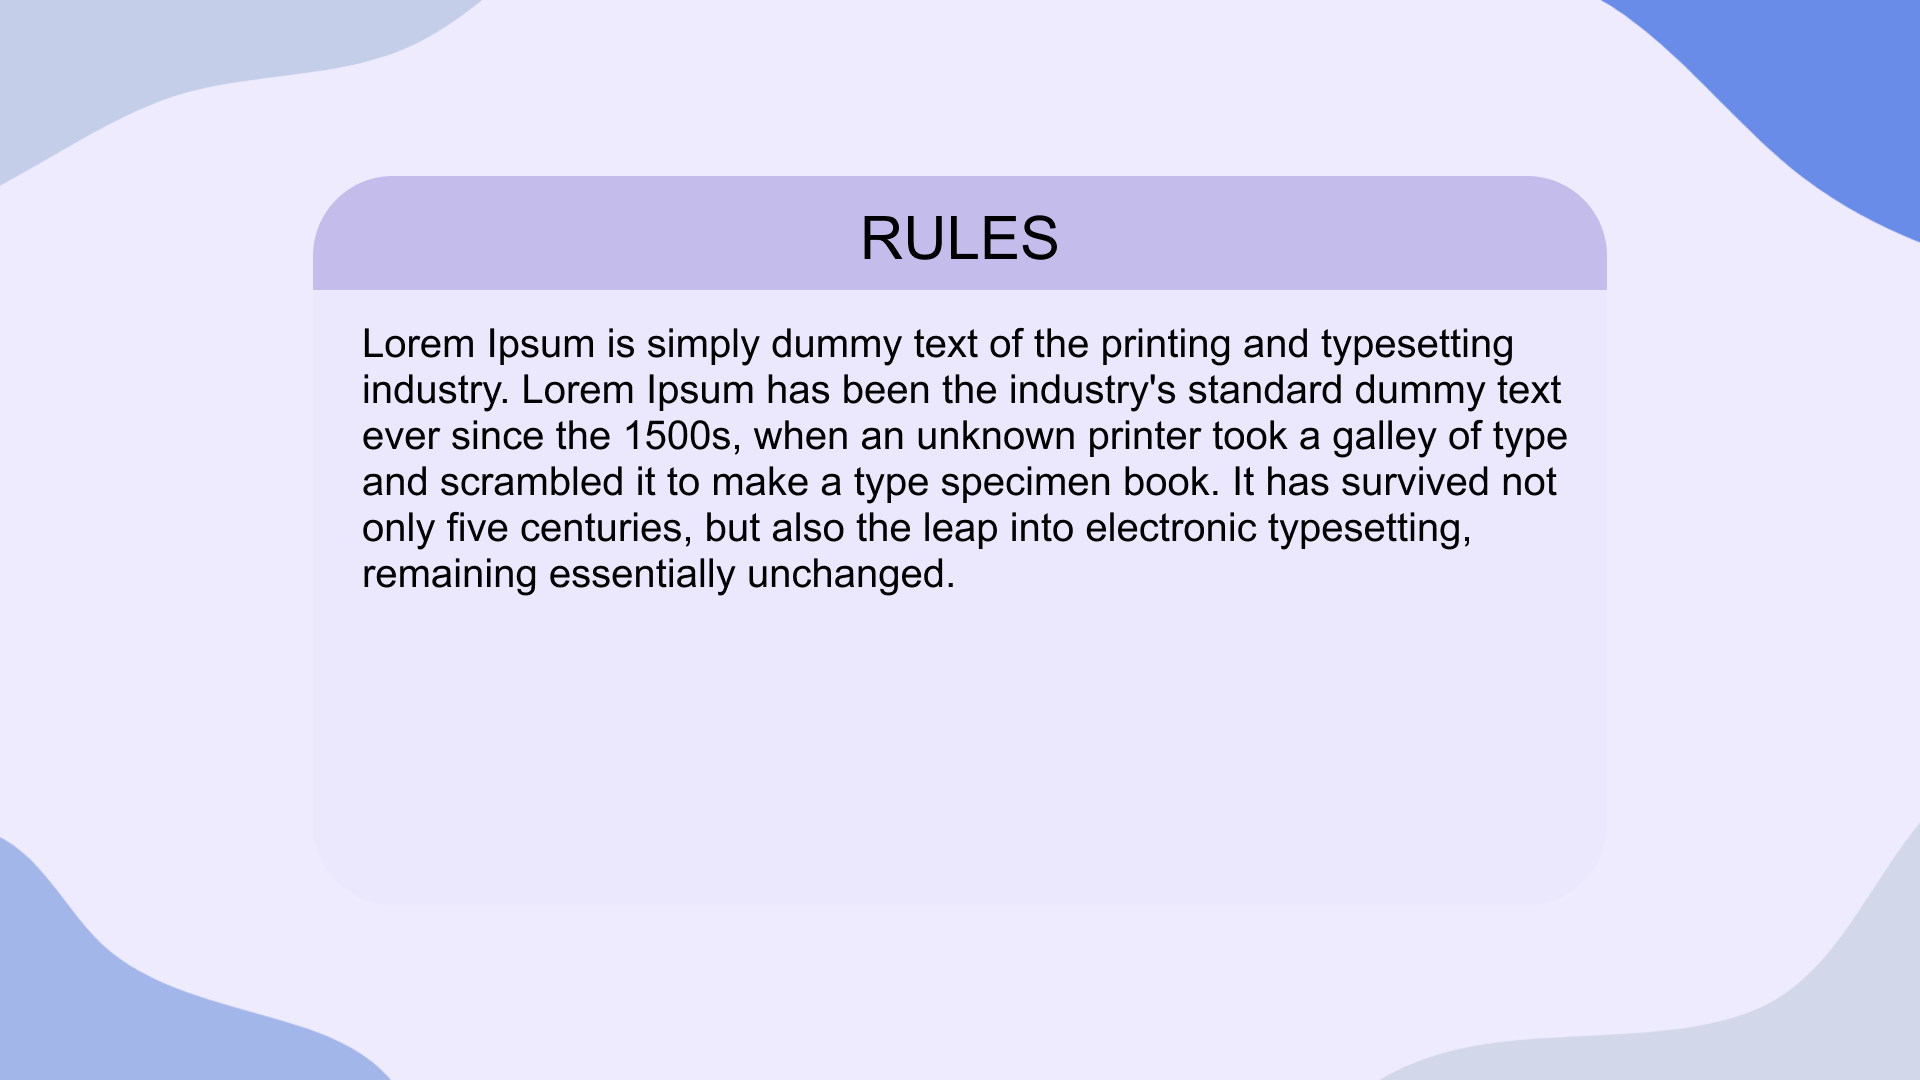
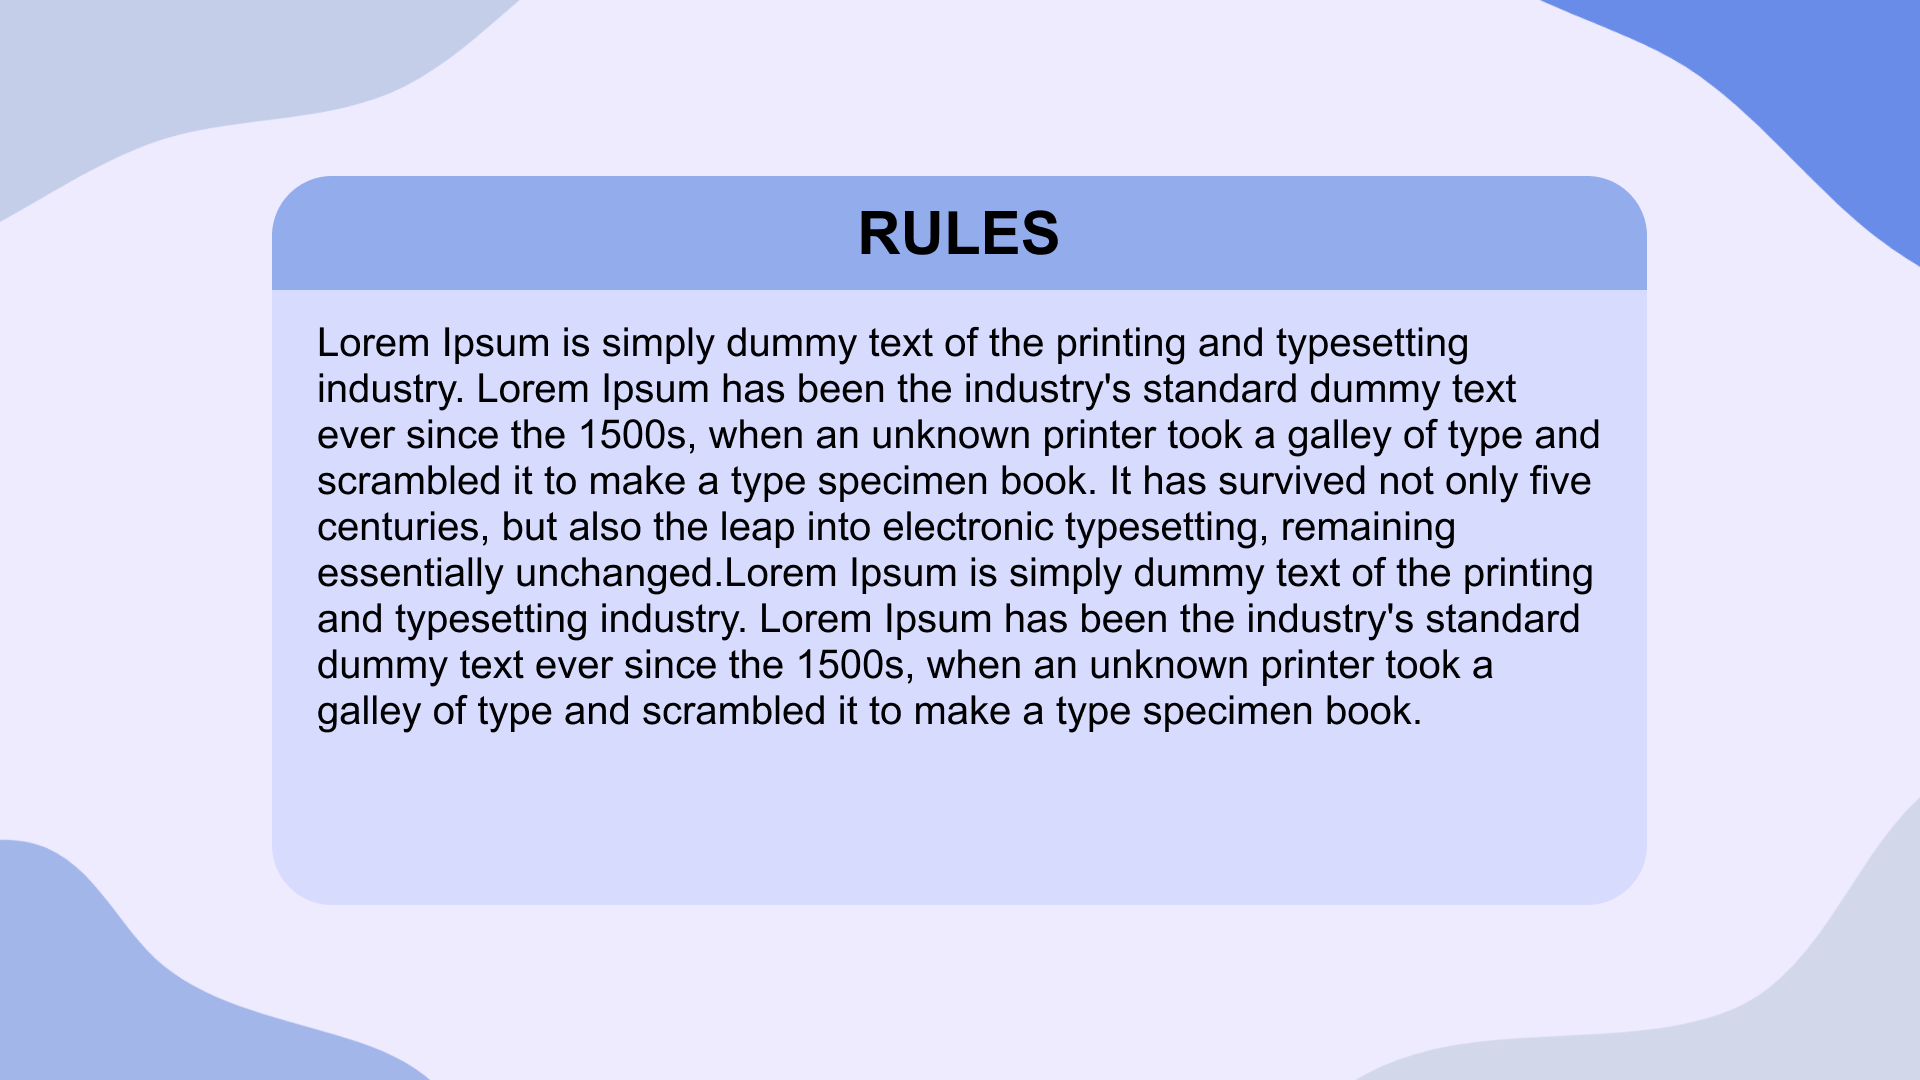
feat(backend): implement back/next buttons functionality

diff --git a/app/src/Rules.cpp b/app/src/Rules.cpp
@@ -1,16 +1,26 @@
 #include <Rules.hpp>
 
+
 Rules::Rules() {
     gameManager->LoadScene(gameManager->SCENE::RULES, { "Rules/Rules.png" }, { { 0, 0 } });
-	gameManager->LoadButtons(this->m_Buttons, this->m_ButtonsHover, this->m_ButtonPositions, this->m_ButtonNames);
-
+    gameManager->LoadButtons(this->m_Buttons, this->m_ButtonsHover, this->m_ButtonPositions, this->m_ButtonNames);
     while (gameManager->CurrentScene == gameManager->SCENE::RULES && !gameManager->GetShouldClose()) {
         BeginDrawing();
         ClearBackground(BLUE);
         gameManager->Update();
         EndDrawing();
 
-        
+        if (gameManager->IsButtonClicked("BACK")) {
+            delete this;
+            Menu* menu = new Menu();
+            break;
+        }
+        if (gameManager->IsButtonClicked("NEXT"))
+        {
+            delete this;
+            SecondPage* secondPage = new SecondPage();
+            break;
+        }
 
         if (IsKeyPressed(KEY_ESCAPE) || gameManager->IsButtonClicked("EXIT")) {
             std::cout << "Exit" << std::endl;
@@ -21,3 +31,28 @@ Rules::Rules() {
 }
 
 Rules::~Rules() {}
+
+SecondPage::SecondPage() {
+    gameManager->LoadScene(gameManager->SCENE::SECONDRULES, { "Rules/RulesSecond.png" }, { { 0, 0 } });
+    gameManager->LoadButtons(this->m_Buttons, this->m_ButtonsHover, this->m_ButtonPositions, this->m_ButtonNames);
+    while (gameManager->CurrentScene == gameManager->SCENE::SECONDRULES && !gameManager->GetShouldClose()) {
+        BeginDrawing();
+        ClearBackground(BLUE);
+        gameManager->Update();
+        EndDrawing();
+
+        if (gameManager->IsButtonClicked("BACK")) {
+            delete this;
+            Rules* rules = new Rules();
+            break;
+        }
+
+        if (IsKeyPressed(KEY_ESCAPE) || gameManager->IsButtonClicked("EXIT")) {
+            std::cout << "Exit" << std::endl;
+            delete gameManager;
+            break;
+        }
+    }
+}
+
+SecondPage::~SecondPage() {}

diff --git a/app/include/Rules.hpp b/app/include/Rules.hpp
@@ -8,9 +8,21 @@ public:
 	~Rules();
 private:
 	GameManager* gameManager = GameManager::GetInstance();
-
+	
 	std::vector<std::string> m_Buttons = { "Rules/Next.png", "Rules/Back.png" };
 	std::vector<std::string> m_ButtonsHover = { "Rules/NextHover.png", "Rules/BackHover.png" };
-	std::vector<Vector2> m_ButtonPositions = { {1320, 781}, {314, 781} };
+	std::vector<Vector2> m_ButtonPositions = { {1360, 812}, {273, 812} };
 	std::vector<std::string> m_ButtonNames = { "NEXT", "BACK" };
+};
+
+class SecondPage {
+public:
+	SecondPage();
+	~SecondPage();
+private:
+	GameManager* gameManager = GameManager::GetInstance();
+	std::vector<std::string> m_Buttons = { "Rules/Back.png" };
+	std::vector<std::string> m_ButtonsHover = { "Rules/BackHover.png" };
+	std::vector<Vector2> m_ButtonPositions = { {273, 812} };
+	std::vector<std::string> m_ButtonNames = { "BACK" };
 };

diff --git a/app/include/GameManager.hpp b/app/include/GameManager.hpp
@@ -13,7 +13,8 @@ public:
         GAME,
         REGISTER,
         SITEHOME,
-        RULES
+        RULES,
+        SECONDRULES
     };
 
     Font Arial;
